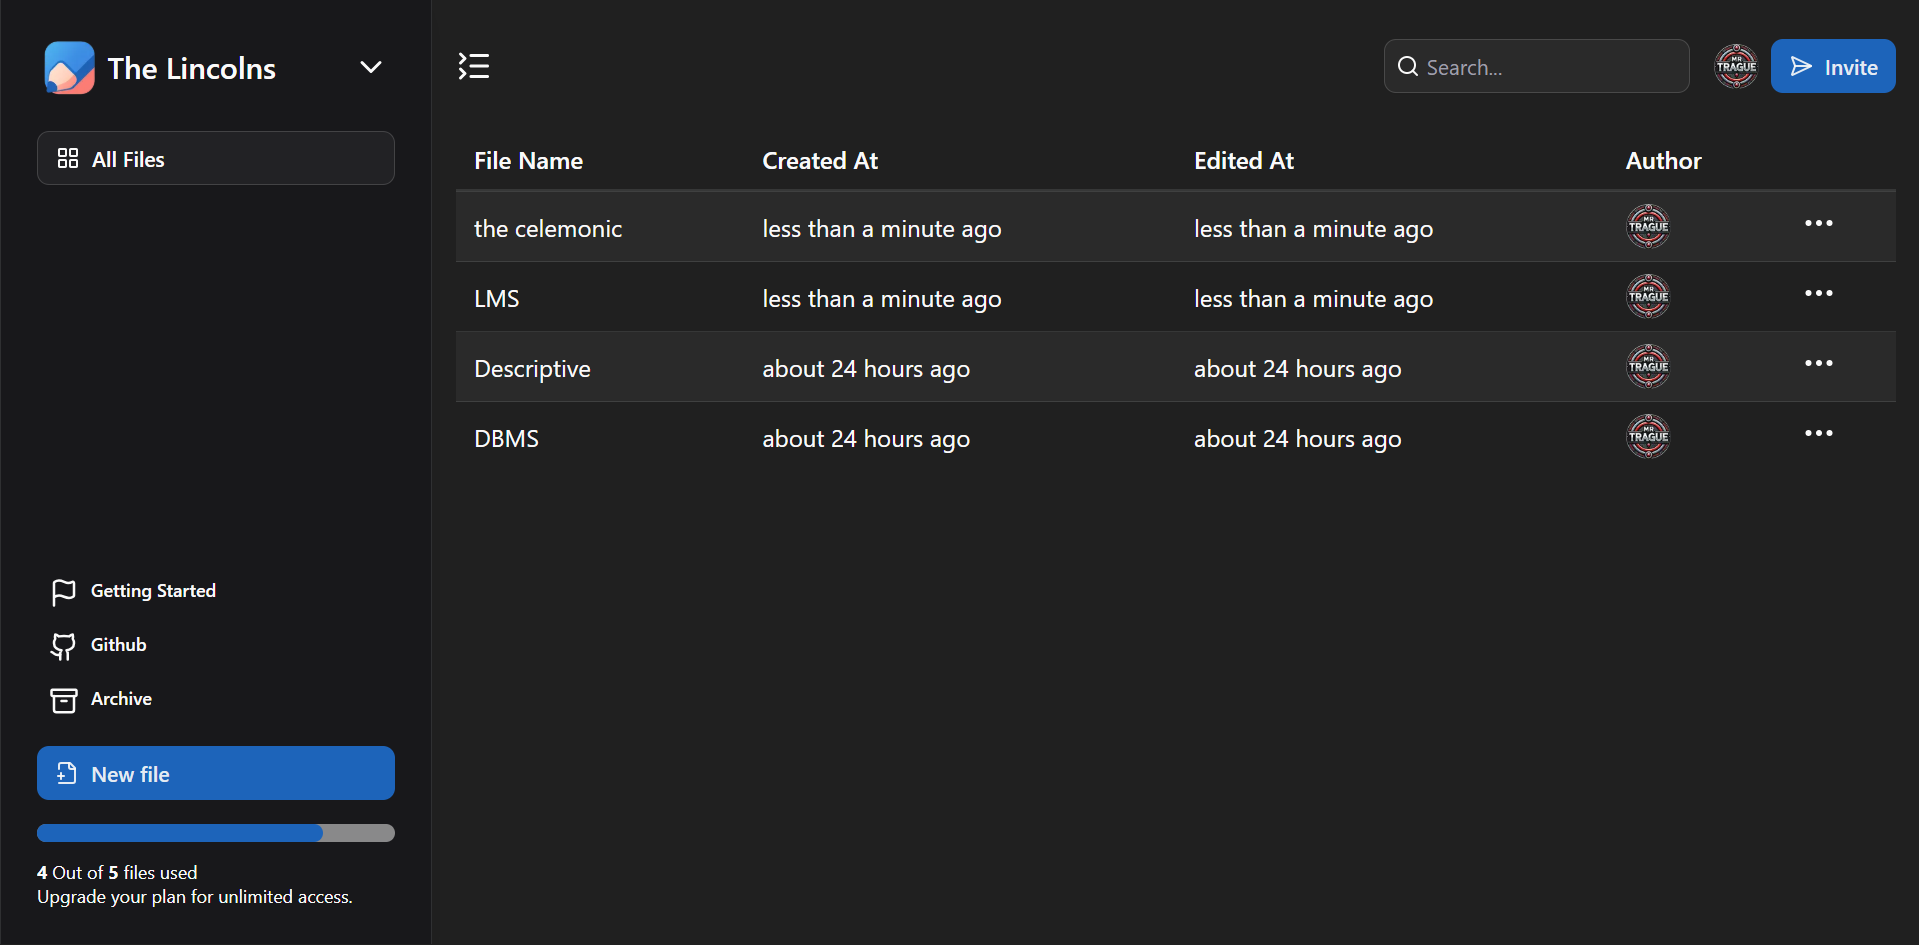
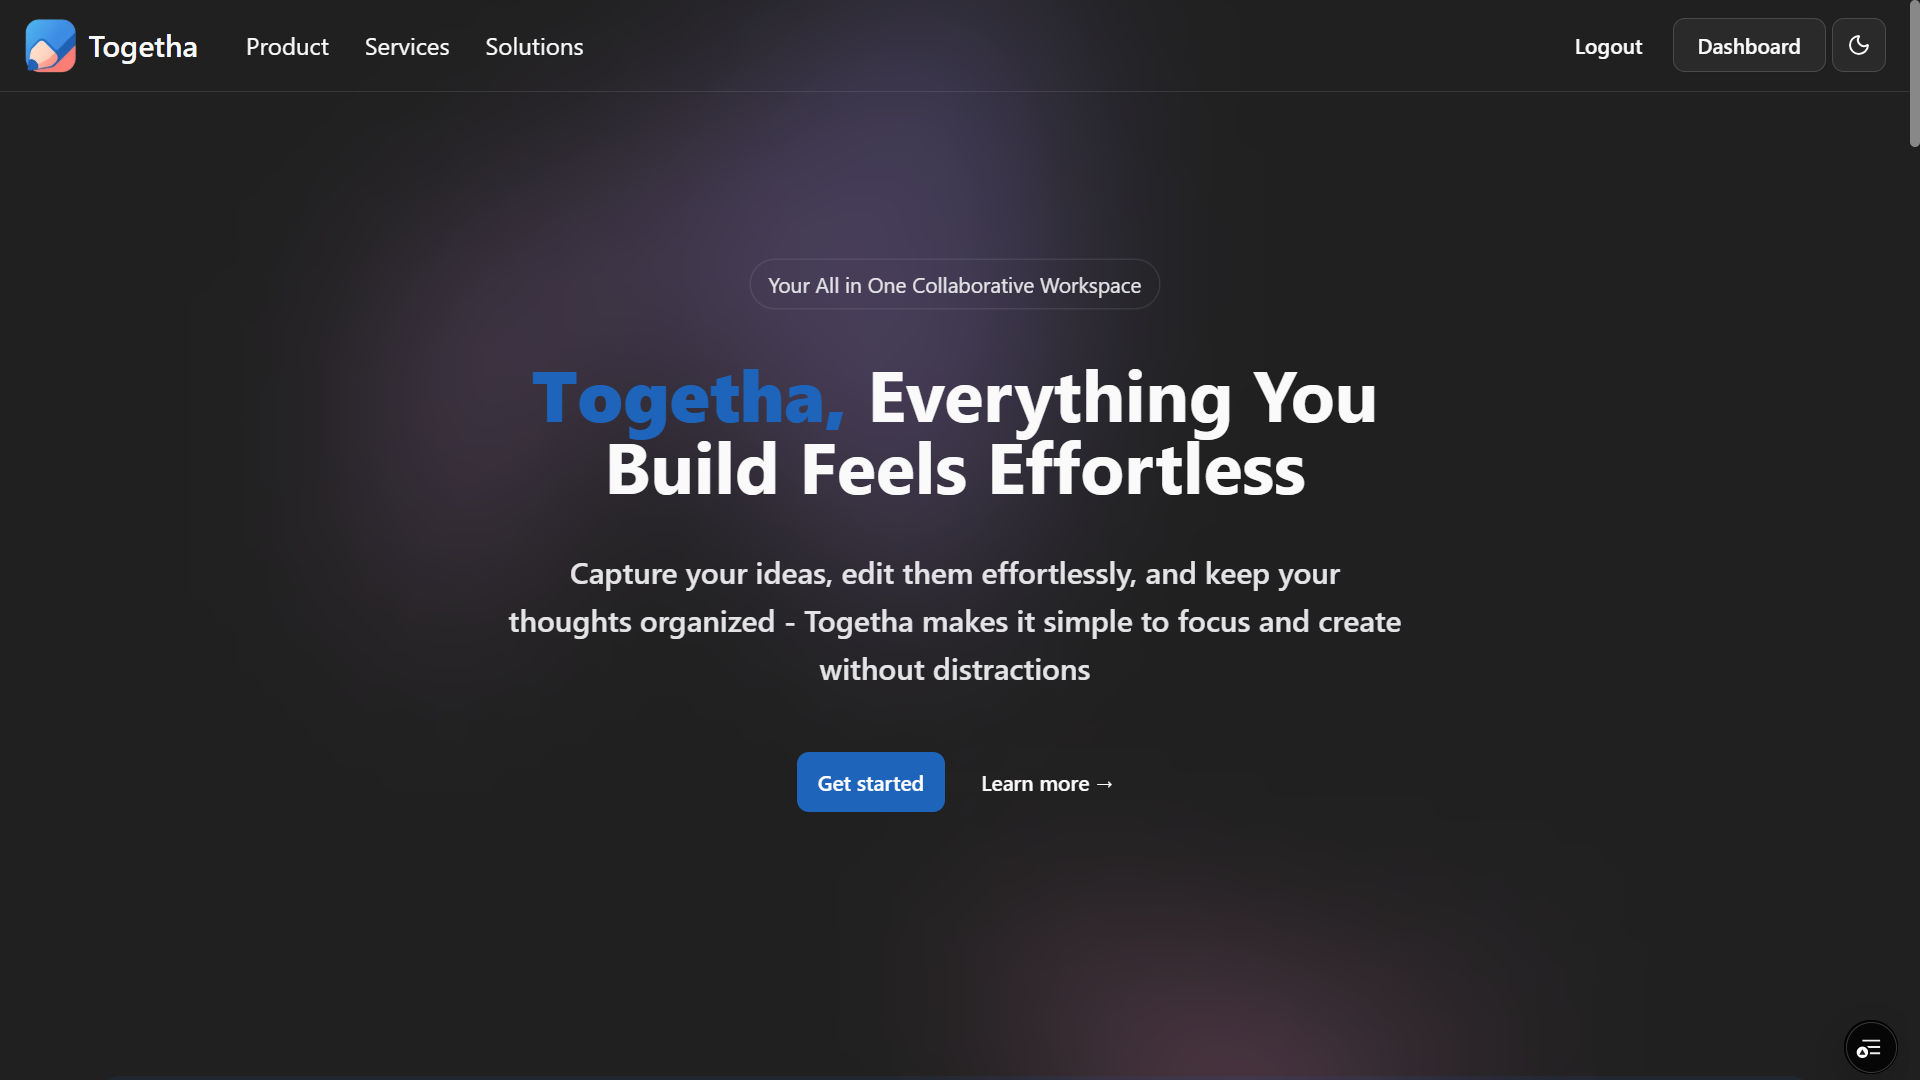
Chore: Added the New Skills gained A month of Struggle

diff --git a/src/Components/About/About.jsx b/src/Components/About/About.jsx
@@ -1,16 +1,16 @@
-import { Link } from "react-router-dom";
-
-import { FaPython } from "react-icons/fa";
-import { IoLogoJavascript } from "react-icons/io5";
-import { SiDjango } from "react-icons/si";
-import { IoLogoReact } from "react-icons/io5";
-import { FaGitAlt } from "react-icons/fa6";
-import { SiGithubactions } from "react-icons/si";
-import { IoLogoDocker } from "react-icons/io5";
-import { SiPostman } from "react-icons/si";
-import { SiPrisma } from "react-icons/si";
-import { BiLogoTypescript } from "react-icons/bi";
-import { SiNextdotjs } from "react-icons/si";
+import { FaPython, FaAws, FaFigma } from "react-icons/fa";
+import { IoLogoJavascript, IoLogoNodejs, IoLogoDocker } from "react-icons/io5";
+import {
+  SiDjango,
+  SiGithubactions,
+  SiNextdotjs,
+  SiExpress,
+  SiGooglecloud,
+  SiMui,
+} from "react-icons/si";
+import { BiLogoTypescript, BiLogoPostgresql } from "react-icons/bi";
+import { RiTailwindCssFill } from "react-icons/ri";
+import { SiShadcnui, SiMongodb, SiMysql } from "react-icons/si";
 
 const About = () => {
   return (
@@ -25,7 +25,8 @@ const About = () => {
 
         {/* Description */}
         <p className="text-lg mb-6">
-          I'm a passionate <strong>Full-Stack Software Engineer</strong> who
+          I'm a passionate{" "}
+          <strong>AI Enthusiast & Full-Stack Software Engineer</strong> who
           enjoys building <strong>modern, scalable applications</strong>. I
           focus on creating <strong>clean architectures</strong> and delivering
           <strong> seamless user experiences</strong> with reliable performance.
@@ -52,50 +53,83 @@ const About = () => {
             </div>
           </div>
 
-          {/* Frameworks */}
+          {/* FrontEnd */}
           <div>
-            <h3 className="text-2xl font-semibold mb-2">Frameworks</h3>
+            <h3 className="text-2xl font-semibold mb-2">FrontEnd Skills</h3>
+            <div className="flex flex-wrap gap-4 items-center">
+              <div className="flex flex-col items-center gap-1">
+                <SiNextdotjs className="w-10 h-10" />
+                <span>Next JS</span>
+              </div>
+              <div className="flex flex-col items-center gap-1">
+                <FaFigma className="w-10 h-10" />
+                <span>Figma</span>
+              </div>
+              <div className="flex flex-col items-center gap-1">
+                <RiTailwindCssFill className="w-10 h-10" />
+                <span>TailwindCss</span>
+              </div>
+              <div className="flex flex-col items-center gap-1">
+                <SiMui className="w-10 h-10" />
+                <span>MUI</span>
+              </div>
+              <div className="flex flex-col items-center gap-1">
+                <SiShadcnui className="w-10 h-10" />
+                <span>ShadCN</span>
+              </div>
+            </div>
+          </div>
+
+          {/* Backend */}
+          <div>
+            <h3 className="text-2xl font-semibold mb-2">Backend Skills</h3>
             <div className="flex flex-wrap gap-4 items-center">
               <div className="flex flex-col items-center gap-1">
                 <SiDjango className="w-10 h-10" />
                 <span>Django</span>
               </div>
               <div className="flex flex-col items-center gap-1">
-                <IoLogoReact className="w-10 h-10" />
-                <span>React.js</span>
+                <IoLogoNodejs className="w-10 h-10" />
+                <span>Node</span>
               </div>
               <div className="flex flex-col items-center gap-1">
-                <SiNextdotjs className="w-10 h-10" />
-                <span>Next.js</span>
+                <SiExpress className="w-10 h-10" />
+                <span>Express</span>
+              </div>
+              <div className="flex flex-col items-center gap-1">
+                <SiMongodb className="w-10 h-10" />
+                <span>MongoDB</span>
+              </div>
+              <div className="flex flex-col items-center gap-1">
+                <BiLogoPostgresql className="w-10 h-10" />
+                <span>PostgreSQL</span>
+              </div>
+              <div className="flex flex-col items-center gap-1">
+                <SiMysql className="w-10 h-10" />
+                <span>MySQL</span>
               </div>
             </div>
           </div>
 
           {/* Tools & Technologies */}
           <div>
-            <h3 className="text-2xl font-semibold mb-2">
-              Tools & Technologies
-            </h3>
+            <h3 className="text-2xl font-semibold mb-2">DevOps | CI/CD</h3>
             <div className="flex flex-wrap gap-4 items-center">
               <div className="flex flex-col items-center gap-1">
-                <FaGitAlt className="w-10 h-10" />
-                <span>Git</span>
+                <IoLogoDocker className="w-10 h-10" />
+                <span>Docker</span>
               </div>
               <div className="flex flex-col items-center gap-1">
                 <SiGithubactions className="w-10 h-10" />
                 <span>GitHub Actions</span>
               </div>
               <div className="flex flex-col items-center gap-1">
-                <IoLogoDocker className="w-10 h-10" />
-                <span>Docker</span>
+                <FaAws className="w-10 h-10" />
+                <span>AWS</span>
               </div>
               <div className="flex flex-col items-center gap-1">
-                <SiPostman className="w-10 h-10" />
-                <span>Postman</span>
-              </div>
-              <div className="flex flex-col items-center gap-1">
-                <SiPrisma className="w-10 h-10" />
-                <span>Prisma</span>
+                <SiGooglecloud className="w-10 h-10" />
+                <span>GCP</span>
               </div>
             </div>
           </div>

diff --git a/src/Components/Projects/Projects.jsx b/src/Components/Projects/Projects.jsx
@@ -26,7 +26,7 @@ const Projects = () => {
       {/* brain page */}
       <div className="cursor-pointer w-full flex flex-col items-start border-2 border-primaryBorder p-3 rounded-md shadow-lg transition-transform duration-300 hover:translate-y-2">
         <a
-          href="https://github.com/AimableUK/Brain_Page_FrontEnd"
+          href="https://brain-page.vercel.app/"
           target="_blank"
         >
           <img
@@ -35,7 +35,7 @@ const Projects = () => {
             className="w-full h-auto object-cover border-2 rounded-md border-black"
           />
           <p className="font-bold">BRAIN PAGE - Library Management System</p>
-          <p className="font-semibold">Visit Docs</p>
+          <p className="font-semibold">Visit Web</p>
         </a>
       </div>
 

diff --git a/src/Components/Details/Details.jsx b/src/Components/Details/Details.jsx
@@ -36,7 +36,7 @@ const Menu = () => {
           />
           <h3 className="font-bold text-2xl mt-10">UKOBIZABA Aimable</h3>
           <h5 className="role border border-primaryBorder rounded-sm bg-primaryBody p-1 font-semibold">
-            Full-Stack Developer
+            AI & Full-Stack Developer
           </h5>
         </div>
 
